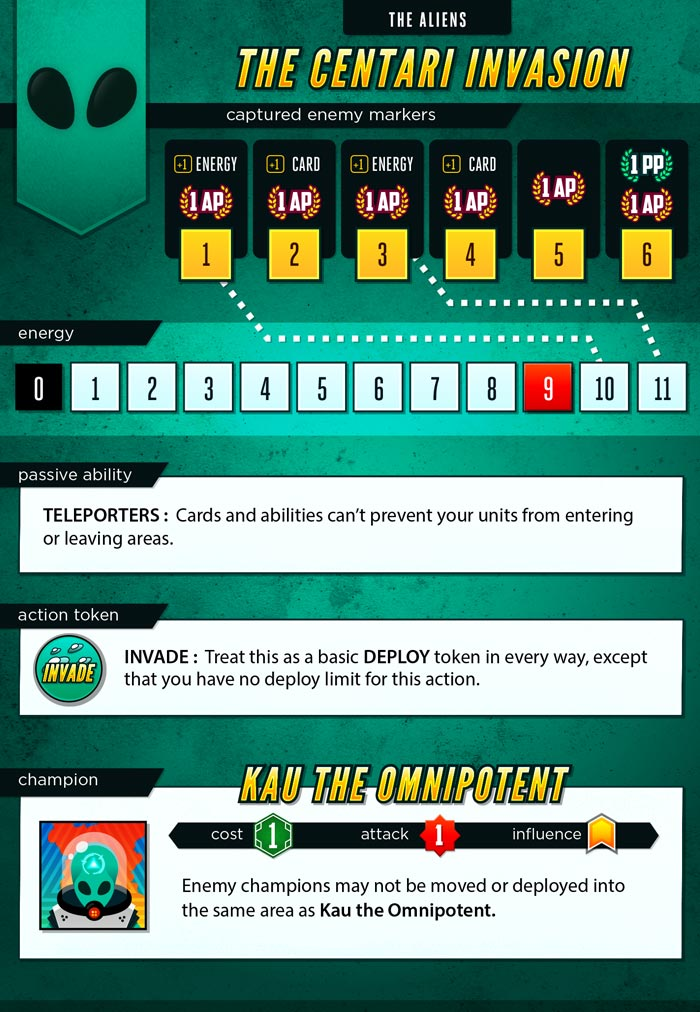
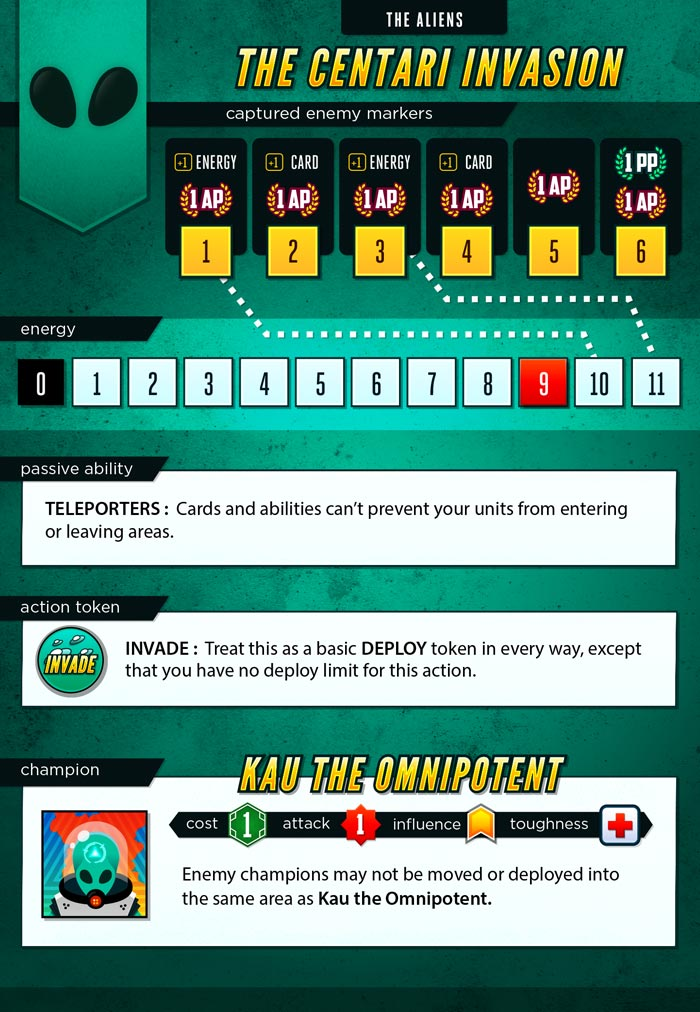
Give Kau Toughness

diff --git a/server/classes/factions/Aliens.js b/server/classes/factions/Aliens.js
@@ -14,6 +14,7 @@ class Aliens extends Faction {
         this.data.focus = 'captured-markers-focus';
         this.data.focusDescription = "Capture many enemy markers";
         this.data.teleports = true; // our units cannot be prevented from entering or leaving areas
+        this.data.flipableUnits = ['champion'];
 
         this.capturedRewards = [
             { ap : 1, maxEnergy : 1 },
@@ -57,6 +58,8 @@ class Aliens extends Faction {
                 cost: 1,
                 killed : false,
                 selected : false,
+                toughness : true,
+                flipped : false,
                 hitsAssigned : 0
             }
         };
